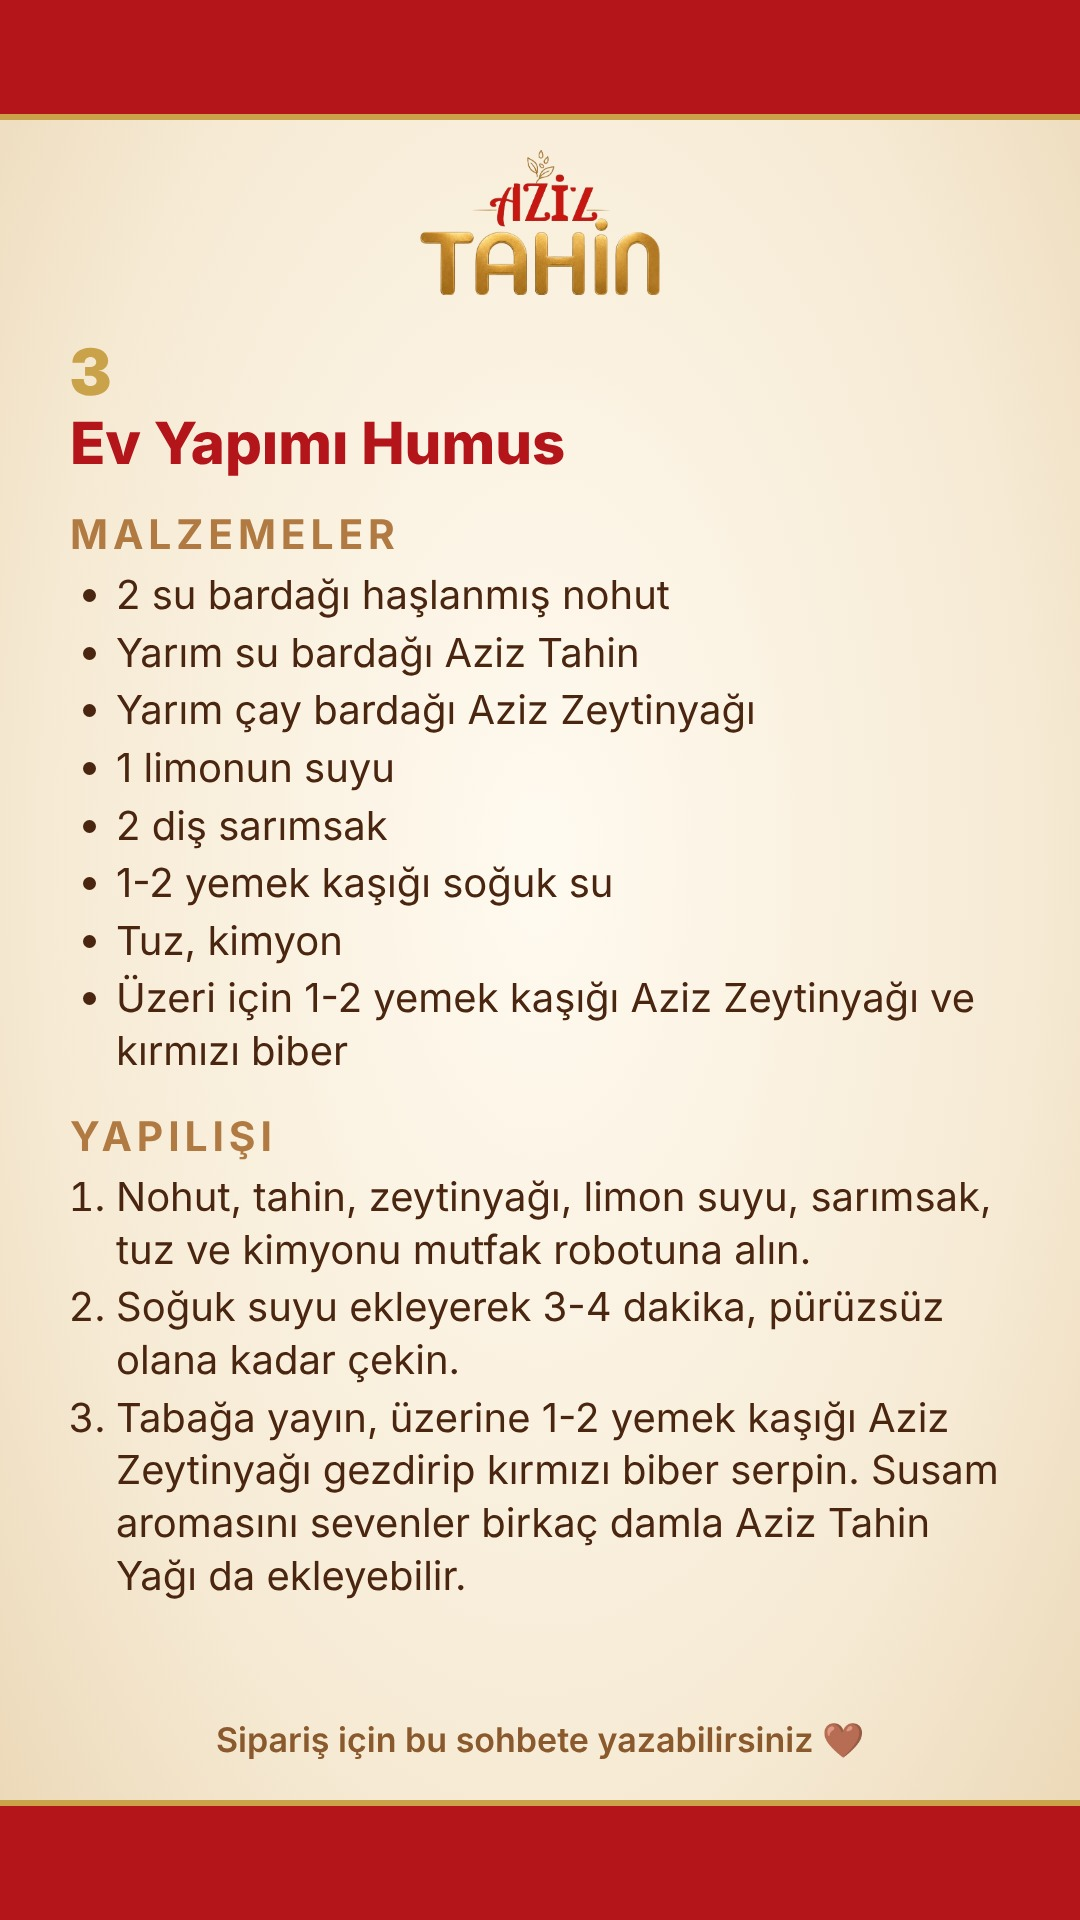
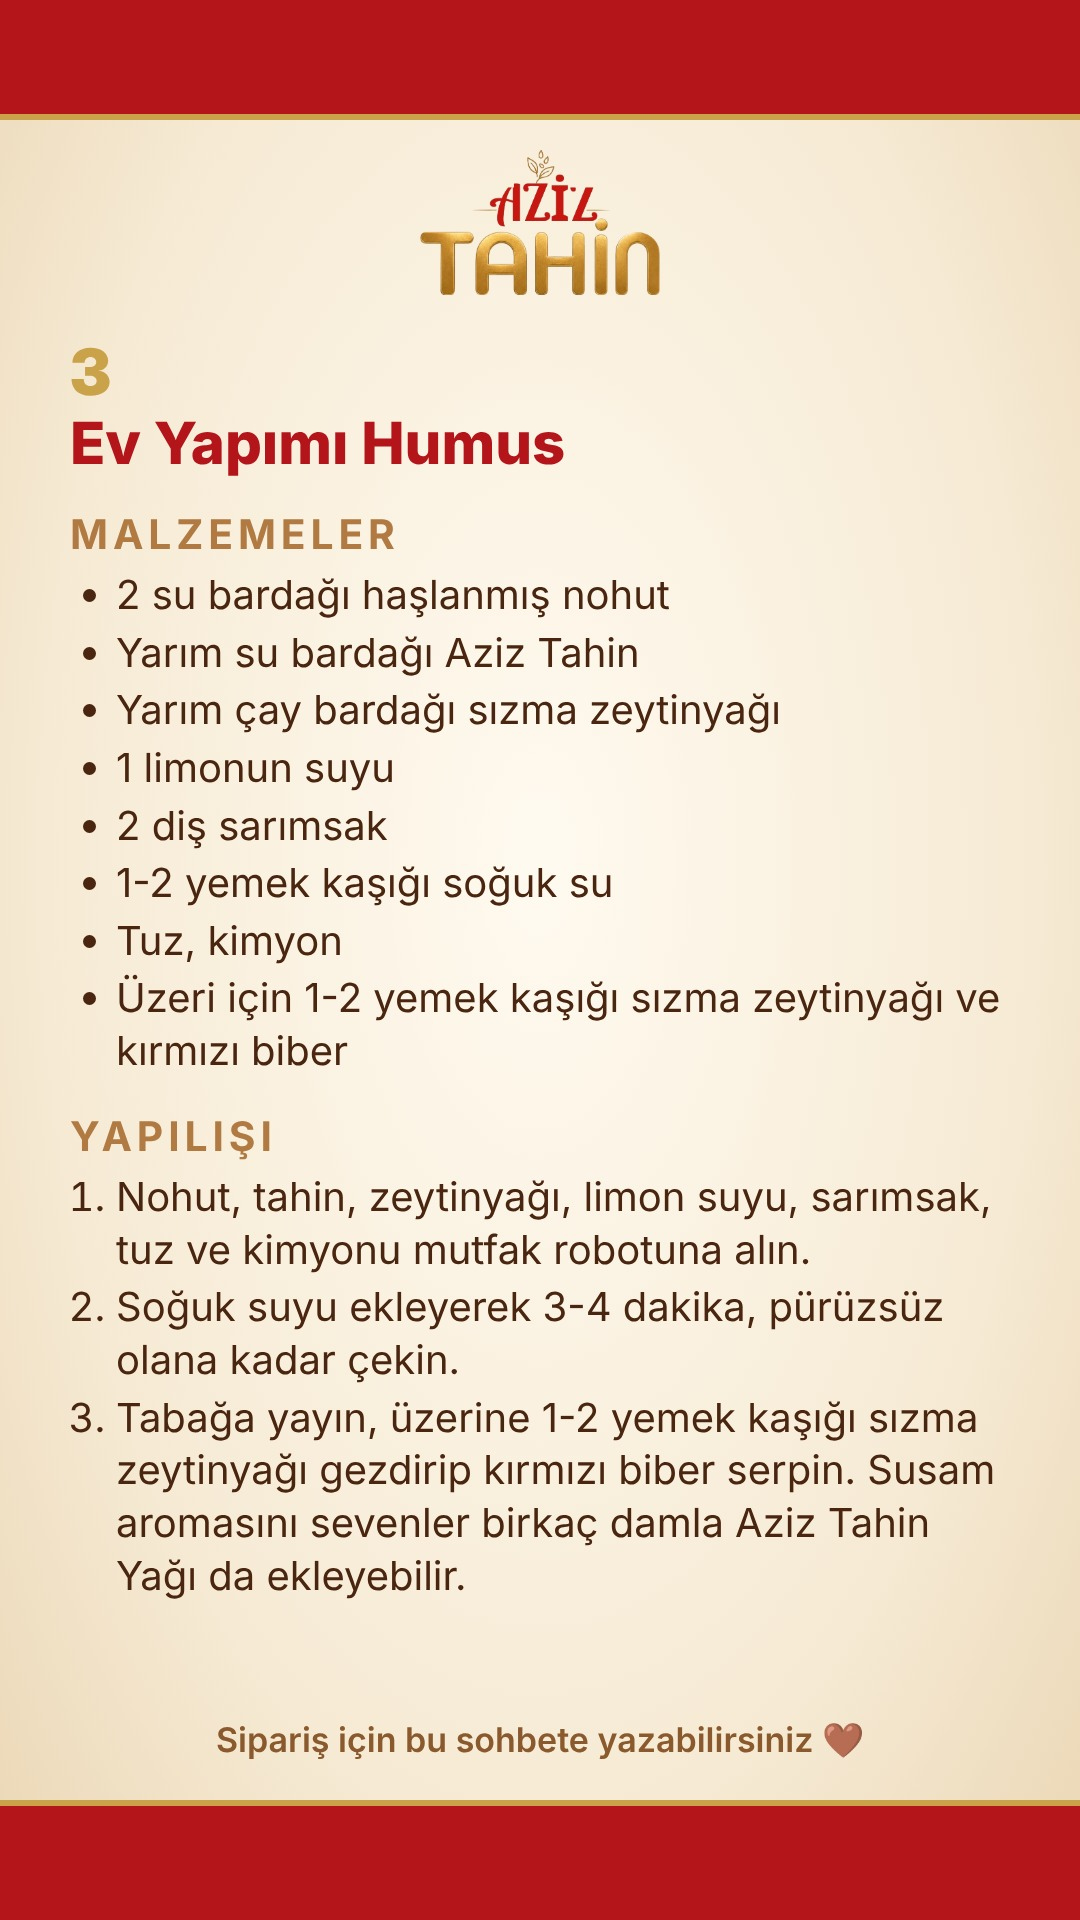
Marka kuralı: Aziz yalnızca tahin ve tahin yağı (#45)
Claude-Session: https://claude.ai/code/session_01LbgBc4wPXWRgFMDuR8TYQV

Changed region(s): [[0.1222, 0.7188, 0.9167, 0.7812], [0.5806, 0.5, 0.9167, 0.5312], [0.4278, 0.3438, 0.7333, 0.4062]]

diff --git a/docs/tarifler.html b/docs/tarifler.html
@@ -4,6 +4,6 @@ h2{color:var(--red);margin:.2em 0;font-size:1.3em}h2 span{display:inline-block;c
 .cta{text-align:center;font-weight:600;padding:12px}.cta a{display:inline-block;background:#b3151b;color:#fff;text-decoration:none;padding:12px 20px;border-radius:999px;margin-top:8px}nav{text-align:center;font-size:.95em}nav a{margin:0 6px;white-space:nowrap}</style></head>
 <body><header><img src="logo.png" alt="Aziz Tahin"></header><main><h1 style="text-align:center">Aziz Tahin ile 5 tarif</h1>
 <nav><a href="#t1">Tavuk</a><a href="#t2">Rulo</a><a href="#t3">Humus</a><a href="#t4">Enerji topları</a><a href="#t5">Ballı tahin</a></nav>
-<section id='t1'><h2><span>1</span>Bademli Tahin Soslu Tavuk</h2><p class='meta'>Hazırlama 30 dk, pişirme 30 dk, 4-5 kişilik</p><h3>Malzemeler</h3><ul><li>800 gr tavuk bonfile</li><li>50 gr soyulmuş badem</li><li>1 orta boy soğan</li><li>3 adet havuç</li><li>Yarım çay bardağı zeytinyağı</li><li>Karabiber</li><li>Tuz</li></ul><h3>Sosu için</h3><ul><li>1 su bardağı Aziz Tahin</li><li>2 adet orta boy limonun suyu</li><li>100 gr soyulmuş badem</li></ul><h3>Yapılışı</h3><ol><li>100 gr bademi 1 su bardağı su ile iyice öğütüp elde edilen karışımdan badem sütünü süzün.</li><li>Kalan 50 gr bademi, yarım çay bardağı zeytinyağında 3-4 dk kavurun. Sonrasında küp doğranmış kuru soğanları ve yuvarlak dilimlenmiş havuçları ekleyip kavurmaya devam edin.</li><li>Ardından kuşbaşı doğranmış tavuk bonfileyi ilave edip üzerine bol karabiber ve isteğe göre tuz ekleyip tavuklar iyice kızarana kadar arada karıştırarak pişirin.</li><li>Bu sırada sosu için 1 su bardağı Aziz Tahin, 2 orta boy limon suyunu ve hazırlanan badem sütünü birlikte yavaşça çırpıp iyice karıştırın.</li><li>Tavuklar kızardıktan sonra, elde ettiğiniz tahinli badem sütlü sosu yavaşça üzerine ekleyin.</li><li>Yaklaşık 4-5 dk daha kısık ateşte pişirdikten sonra servis edebilirsiniz.</li></ol></section><section id='t2'><h2><span>2</span>Tahinli Cevizli Milföy Rulo</h2><h3>Malzemeler</h3><ul><li>1 su bardağı Aziz Tahin</li><li>Milföy</li><li>2 yemek kaşığı sıvı yağ</li><li>Çekilmiş ceviz</li><li>3/4 su bardağı pudra şekeri</li></ul><h3>Yapılışı</h3><ol><li>Milföyleri tepsiye dizip şeritler halinde kesin.</li><li>Tahin, sıvı yağ ve pudra şekerini karıştırın.</li><li>Karışımı şeritler halinde kesilmiş milföylerin üzerine sürüp ceviz ekleyin ve şeritleri rulo yapın.</li><li>Ruloları tepsiye dizip üzerlerine biraz daha tahinli karışım ve ceviz ekleyin.</li><li>200°C fırında yaklaşık 25 dakika pişirin.</li></ol></section><section id='t3'><h2><span>3</span>Ev Yapımı Humus</h2><h3>Malzemeler</h3><ul><li>2 su bardağı haşlanmış nohut</li><li>Yarım su bardağı Aziz Tahin</li><li>Yarım çay bardağı Aziz Zeytinyağı</li><li>1 limonun suyu</li><li>2 diş sarımsak</li><li>1-2 yemek kaşığı soğuk su</li><li>Tuz, kimyon</li><li>Üzeri için 1-2 yemek kaşığı Aziz Zeytinyağı ve kırmızı biber</li></ul><h3>Yapılışı</h3><ol><li>Nohut, tahin, zeytinyağı, limon suyu, sarımsak, tuz ve kimyonu mutfak robotuna alın.</li><li>Soğuk suyu ekleyerek 3-4 dakika, pürüzsüz olana kadar çekin.</li><li>Tabağa yayın, üzerine 1-2 yemek kaşığı Aziz Zeytinyağı gezdirip kırmızı biber serpin. Susam aromasını sevenler birkaç damla Aziz Tahin Yağı da ekleyebilir.</li></ol></section><section id='t4'><h2><span>4</span>Tahinli Ballı Enerji Topları</h2><p class='meta'>yaklaşık 12 adet, fırın gerekmez</p><h3>Malzemeler</h3><ul><li>1 su bardağı yulaf</li><li>3 yemek kaşığı Aziz Tahin</li><li>2 yemek kaşığı Munzur Balı</li><li>Yarım çay bardağı çekilmiş ceviz ya da fındık</li><li>1 yemek kaşığı kakao (isteğe bağlı)</li><li>Bir tutam tuz</li><li>Üzeri için susam</li></ul><h3>Yapılışı</h3><ol><li>Tüm malzemeleri bir kapta iyice karıştırın.</li><li>Karışımdan ceviz büyüklüğünde parçalar alıp yuvarlayın, susama bulayın.</li><li>Buzdolabında 30 dakika dinlendirin. Spor sonrası ya da ara öğünde tok tutan bir atıştırmalık olur.</li></ol></section><section id='t5'><h2><span>5</span>Ballı Tahin</h2><h3>Malzemeler</h3><ul><li>3 yemek kaşığı Aziz Tahin</li><li>1 yemek kaşığı Munzur Balı</li><li>Tarçın (isteğe göre)</li></ul><h3>Yapılışı</h3><ol><li>Tahini kavanozda iyice karıştırın; doğal tahinin yağı üste çıkar, bu katkısız olduğunun işaretidir.</li><li>Tahin ve balı küçük bir kasede karıştırın. İsterseniz üzerine tarçın serpin.</li><li>Taze ekmekle kahvaltı sofranıza alın.</li></ol></section>
+<section id='t1'><h2><span>1</span>Bademli Tahin Soslu Tavuk</h2><p class='meta'>Hazırlama 30 dk, pişirme 30 dk, 4-5 kişilik</p><h3>Malzemeler</h3><ul><li>800 gr tavuk bonfile</li><li>50 gr soyulmuş badem</li><li>1 orta boy soğan</li><li>3 adet havuç</li><li>Yarım çay bardağı zeytinyağı</li><li>Karabiber</li><li>Tuz</li></ul><h3>Sosu için</h3><ul><li>1 su bardağı Aziz Tahin</li><li>2 adet orta boy limonun suyu</li><li>100 gr soyulmuş badem</li></ul><h3>Yapılışı</h3><ol><li>100 gr bademi 1 su bardağı su ile iyice öğütüp elde edilen karışımdan badem sütünü süzün.</li><li>Kalan 50 gr bademi, yarım çay bardağı zeytinyağında 3-4 dk kavurun. Sonrasında küp doğranmış kuru soğanları ve yuvarlak dilimlenmiş havuçları ekleyip kavurmaya devam edin.</li><li>Ardından kuşbaşı doğranmış tavuk bonfileyi ilave edip üzerine bol karabiber ve isteğe göre tuz ekleyip tavuklar iyice kızarana kadar arada karıştırarak pişirin.</li><li>Bu sırada sosu için 1 su bardağı Aziz Tahin, 2 orta boy limon suyunu ve hazırlanan badem sütünü birlikte yavaşça çırpıp iyice karıştırın.</li><li>Tavuklar kızardıktan sonra, elde ettiğiniz tahinli badem sütlü sosu yavaşça üzerine ekleyin.</li><li>Yaklaşık 4-5 dk daha kısık ateşte pişirdikten sonra servis edebilirsiniz.</li></ol></section><section id='t2'><h2><span>2</span>Tahinli Cevizli Milföy Rulo</h2><h3>Malzemeler</h3><ul><li>1 su bardağı Aziz Tahin</li><li>Milföy</li><li>2 yemek kaşığı sıvı yağ</li><li>Çekilmiş ceviz</li><li>3/4 su bardağı pudra şekeri</li></ul><h3>Yapılışı</h3><ol><li>Milföyleri tepsiye dizip şeritler halinde kesin.</li><li>Tahin, sıvı yağ ve pudra şekerini karıştırın.</li><li>Karışımı şeritler halinde kesilmiş milföylerin üzerine sürüp ceviz ekleyin ve şeritleri rulo yapın.</li><li>Ruloları tepsiye dizip üzerlerine biraz daha tahinli karışım ve ceviz ekleyin.</li><li>200°C fırında yaklaşık 25 dakika pişirin.</li></ol></section><section id='t3'><h2><span>3</span>Ev Yapımı Humus</h2><h3>Malzemeler</h3><ul><li>2 su bardağı haşlanmış nohut</li><li>Yarım su bardağı Aziz Tahin</li><li>Yarım çay bardağı sızma zeytinyağı</li><li>1 limonun suyu</li><li>2 diş sarımsak</li><li>1-2 yemek kaşığı soğuk su</li><li>Tuz, kimyon</li><li>Üzeri için 1-2 yemek kaşığı sızma zeytinyağı ve kırmızı biber</li></ul><h3>Yapılışı</h3><ol><li>Nohut, tahin, zeytinyağı, limon suyu, sarımsak, tuz ve kimyonu mutfak robotuna alın.</li><li>Soğuk suyu ekleyerek 3-4 dakika, pürüzsüz olana kadar çekin.</li><li>Tabağa yayın, üzerine 1-2 yemek kaşığı sızma zeytinyağı gezdirip kırmızı biber serpin. Susam aromasını sevenler birkaç damla Aziz Tahin Yağı da ekleyebilir.</li></ol></section><section id='t4'><h2><span>4</span>Tahinli Ballı Enerji Topları</h2><p class='meta'>yaklaşık 12 adet, fırın gerekmez</p><h3>Malzemeler</h3><ul><li>1 su bardağı yulaf</li><li>3 yemek kaşığı Aziz Tahin</li><li>2 yemek kaşığı Munzur Balı</li><li>Yarım çay bardağı çekilmiş ceviz ya da fındık</li><li>1 yemek kaşığı kakao (isteğe bağlı)</li><li>Bir tutam tuz</li><li>Üzeri için susam</li></ul><h3>Yapılışı</h3><ol><li>Tüm malzemeleri bir kapta iyice karıştırın.</li><li>Karışımdan ceviz büyüklüğünde parçalar alıp yuvarlayın, susama bulayın.</li><li>Buzdolabında 30 dakika dinlendirin. Spor sonrası ya da ara öğünde tok tutan bir atıştırmalık olur.</li></ol></section><section id='t5'><h2><span>5</span>Ballı Tahin</h2><h3>Malzemeler</h3><ul><li>3 yemek kaşığı Aziz Tahin</li><li>1 yemek kaşığı Munzur Balı</li><li>Tarçın (isteğe göre)</li></ul><h3>Yapılışı</h3><ol><li>Tahini kavanozda iyice karıştırın; doğal tahinin yağı üste çıkar, bu katkısız olduğunun işaretidir.</li><li>Tahin ve balı küçük bir kasede karıştırın. İsterseniz üzerine tarçın serpin.</li><li>Taze ekmekle kahvaltı sofranıza alın.</li></ol></section>
 <div class="cta">Taş değirmende öğütülmüş, %100 susamdan Aziz Tahin'i denemek ister misiniz?<br><a href="https://ig.me/m/aziz.tahin">Instagram'dan sipariş verin</a><br><small>Türkiye'nin her iline gönderiyoruz.</small></div>
 </main><footer>Aziz Tahin · Bursa'dan doğal lezzet · <a href="https://aziztahin.com">aziztahin.com</a></footer></body></html>

diff --git a/.claude/instagram/voice.md b/.claude/instagram/voice.md
@@ -12,6 +12,15 @@ uydurmaz, taslaklarda yer tutucu bırakır.
 - **Hitap:** Takipçilere ve herkese "siz" diye hitap edilir. Saygılı ama sıcak
   ve samimi.
 
+## Marka kuralı (önemli)
+
+"Aziz" markası **yalnızca tahin ve tahin yağı** için kullanılır ("Aziz Tahin",
+"Aziz Tahin Yağı"). Bal (Munzur, Ahlat), sızma zeytinyağı ve üzüm pekmezi başka
+üreticilerin ürünleridir: "Aziz bal", "Aziz zeytinyağı", "Aziz pekmez" gibi
+ifadeler asla kullanılmaz. Bu ürünler "Aziz Tahin'de" (dükkanda satılan) ya da
+kendi adlarıyla anılır: "Munzur balı", "Ahlat çiçek balı", "sızma zeytinyağı",
+"üzüm pekmezi".
+
 ## Ben kimim
 
 - **Ad (profil adı):** Aziz Tahin
@@ -153,7 +162,8 @@ asla uydurmaz.
 - Tahinimiz taş değirmende öğütülür. ("Taş değirmen" denir; "doğal taş",
   "değirmen taşı" ya da "su değirmeni" gibi daha ileri ifadeler kullanılmaz.)
 - Zeytinyağımız %100 doğal sızma zeytinyağıdır (extra virgin), 3 L teneke.
-  Tenekede marka adı yoktur; içeriklerde "Aziz Tahin'de sızma zeytinyağı" denir.
+  Aziz markası değildir; içeriklerde "sızma zeytinyağı" ya da "Aziz Tahin'de sızma
+  zeytinyağı" denir.
 - Bal iki çeşit, ikisi de başka üreticilerin balı; Aziz Tahin markasıyla anılmaz:
   - **Munzur balı:** "munzur birlik BAL", Tunceli İli Arı Yetiştiricileri Birliği,
     süzme çiçek balı. İçeriklerde "Munzur balı" denir; "Ovacık balı" ya da "Aziz

diff --git a/.claude/instagram/manychat-kurulum.md b/.claude/instagram/manychat-kurulum.md
@@ -105,17 +105,17 @@ Yapılışı:
 Malzemeler:
 - 2 su bardağı haşlanmış nohut
 - Yarım su bardağı Aziz Tahin
-- Yarım çay bardağı Aziz Zeytinyağı
+- Yarım çay bardağı sızma zeytinyağı
 - 1 limonun suyu
 - 2 diş sarımsak
 - 1-2 yemek kaşığı soğuk su
 - Tuz, kimyon
-- Üzeri için 1-2 yemek kaşığı Aziz Zeytinyağı ve kırmızı biber
+- Üzeri için 1-2 yemek kaşığı sızma zeytinyağı ve kırmızı biber
 
 Yapılışı:
 1. Nohut, tahin, zeytinyağı, limon suyu, sarımsak, tuz ve kimyonu mutfak robotuna alın.
 2. Soğuk suyu ekleyerek 3-4 dakika, pürüzsüz olana kadar çekin.
-3. Tabağa yayın, üzerine 1-2 yemek kaşığı Aziz Zeytinyağı gezdirip kırmızı biber serpin. Susam aromasını sevenler birkaç damla Aziz Tahin Yağı da ekleyebilir.
+3. Tabağa yayın, üzerine 1-2 yemek kaşığı sızma zeytinyağı gezdirip kırmızı biber serpin. Susam aromasını sevenler birkaç damla Aziz Tahin Yağı da ekleyebilir.
 ```
 
 **Mesaj 6** (529 karakter)

diff --git a/.claude/instagram/tarif-listesi.md b/.claude/instagram/tarif-listesi.md
@@ -61,18 +61,18 @@ Yapılışı:
 Malzemeler:
 - 2 su bardağı haşlanmış nohut
 - Yarım su bardağı Aziz Tahin
-- Yarım çay bardağı Aziz Zeytinyağı
+- Yarım çay bardağı sızma zeytinyağı
 - 1 limonun suyu
 - 2 diş sarımsak
 - 1-2 yemek kaşığı soğuk su
 - Tuz, kimyon
-- Üzeri için 1-2 yemek kaşığı Aziz Zeytinyağı ve kırmızı biber
+- Üzeri için 1-2 yemek kaşığı sızma zeytinyağı ve kırmızı biber
 
 Yapılışı:
 1. Nohut, tahin, zeytinyağı, limon suyu, sarımsak, tuz ve kimyonu mutfak
    robotuna alın.
 2. Soğuk suyu ekleyerek 3-4 dakika, pürüzsüz olana kadar çekin.
-3. Tabağa yayın, üzerine 1-2 yemek kaşığı Aziz Zeytinyağı gezdirip kırmızı
+3. Tabağa yayın, üzerine 1-2 yemek kaşığı sızma zeytinyağı gezdirip kırmızı
    biber serpin.
    Susam aromasını sevenler birkaç damla Aziz Tahin Yağı da ekleyebilir.
 
